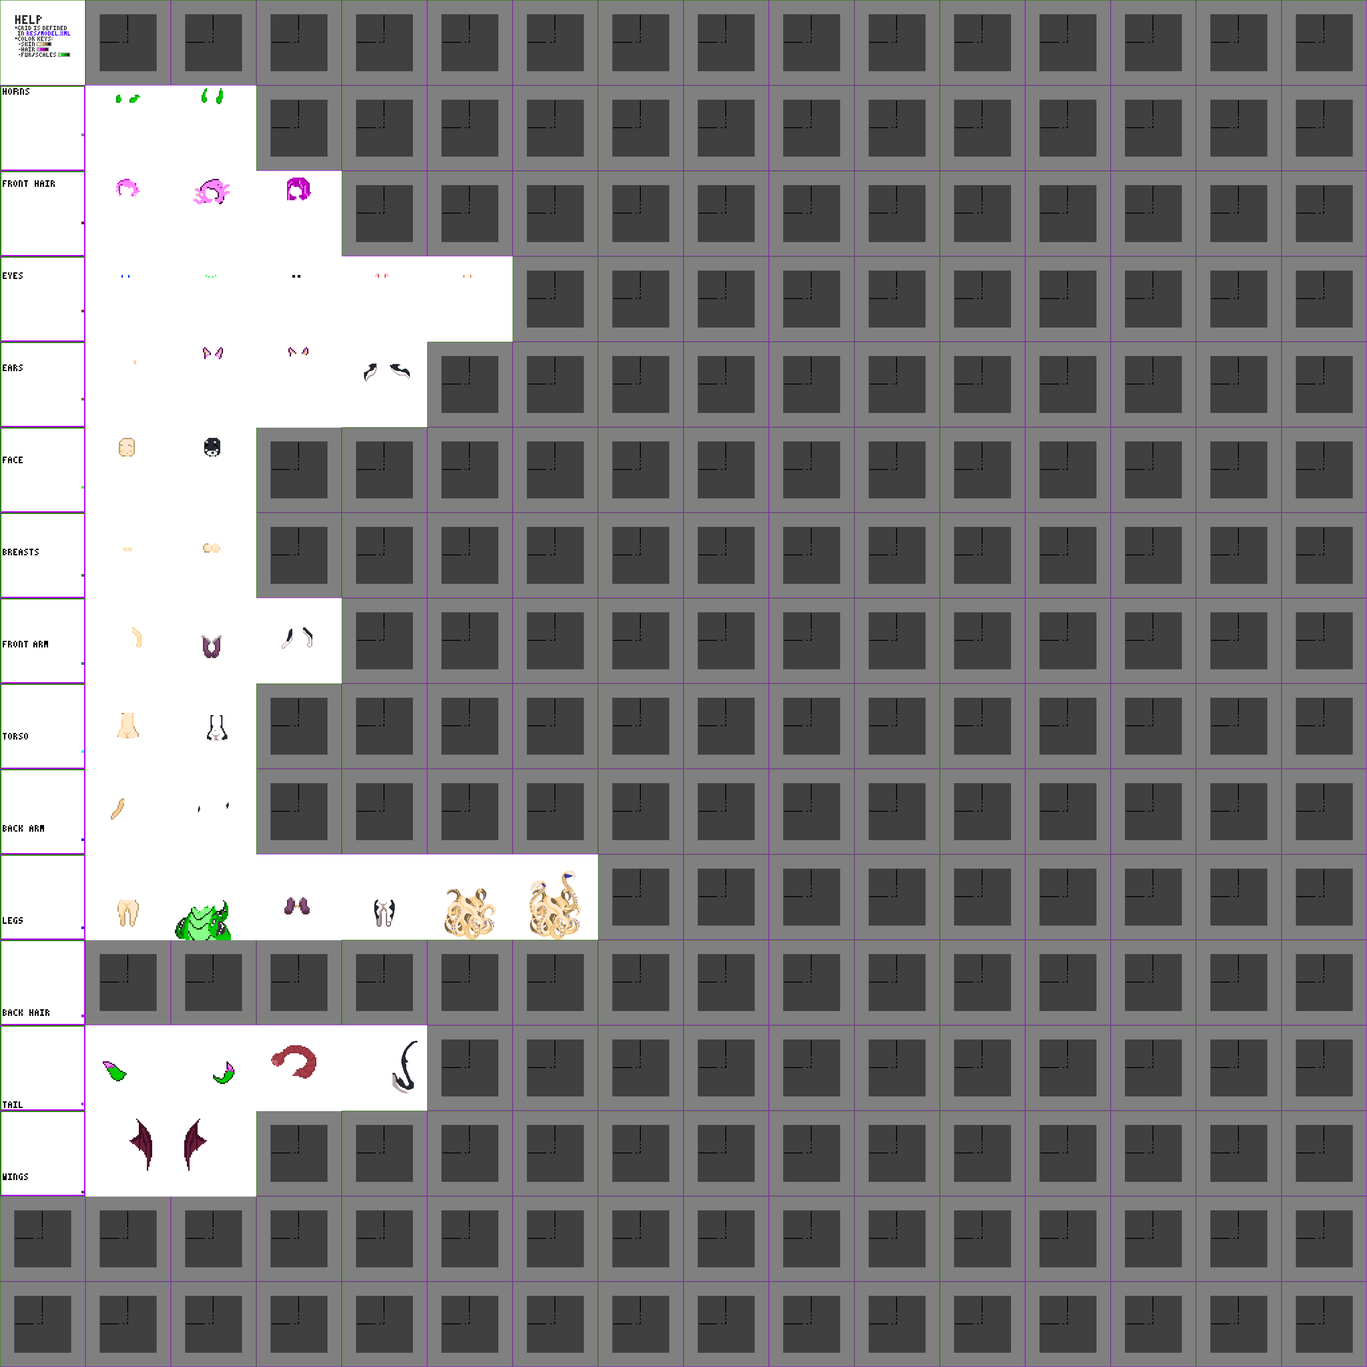
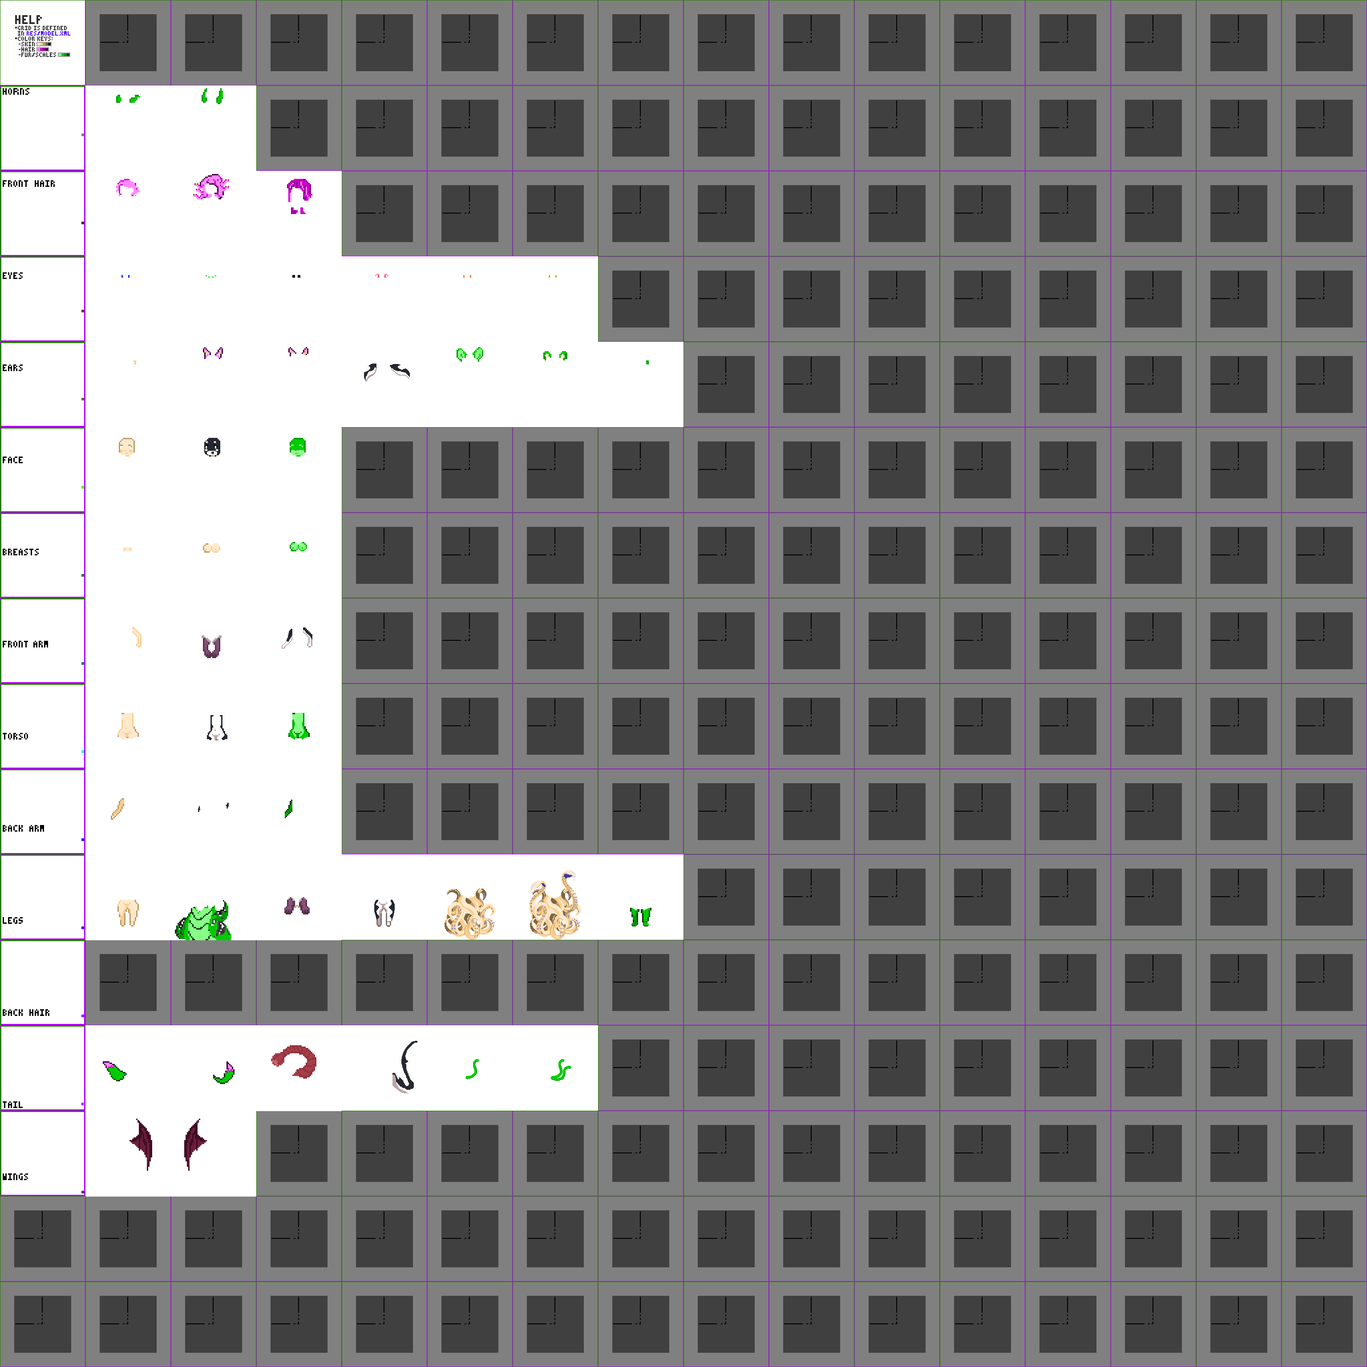
spred colors

diff --git a/cocspred/tinycolor-min.js b/cocspred/tinycolor-min.js
@@ -1,0 +1,4 @@
+// TinyColor v1.4.1
+// https://github.com/bgrins/TinyColor
+// 2016-07-07, Brian Grinstead, MIT License
+!function(a){function b(a,d){if(a=a?a:"",d=d||{},a instanceof b)return a;if(!(this instanceof b))return new b(a,d);var e=c(a);this._originalInput=a,this._r=e.r,this._g=e.g,this._b=e.b,this._a=e.a,this._roundA=P(100*this._a)/100,this._format=d.format||e.format,this._gradientType=d.gradientType,this._r<1&&(this._r=P(this._r)),this._g<1&&(this._g=P(this._g)),this._b<1&&(this._b=P(this._b)),this._ok=e.ok,this._tc_id=O++}function c(a){var b={r:0,g:0,b:0},c=1,e=null,g=null,i=null,j=!1,k=!1;return"string"==typeof a&&(a=K(a)),"object"==typeof a&&(J(a.r)&&J(a.g)&&J(a.b)?(b=d(a.r,a.g,a.b),j=!0,k="%"===String(a.r).substr(-1)?"prgb":"rgb"):J(a.h)&&J(a.s)&&J(a.v)?(e=G(a.s),g=G(a.v),b=h(a.h,e,g),j=!0,k="hsv"):J(a.h)&&J(a.s)&&J(a.l)&&(e=G(a.s),i=G(a.l),b=f(a.h,e,i),j=!0,k="hsl"),a.hasOwnProperty("a")&&(c=a.a)),c=z(c),{ok:j,format:a.format||k,r:Q(255,R(b.r,0)),g:Q(255,R(b.g,0)),b:Q(255,R(b.b,0)),a:c}}function d(a,b,c){return{r:255*A(a,255),g:255*A(b,255),b:255*A(c,255)}}function e(a,b,c){a=A(a,255),b=A(b,255),c=A(c,255);var d,e,f=R(a,b,c),g=Q(a,b,c),h=(f+g)/2;if(f==g)d=e=0;else{var i=f-g;switch(e=h>.5?i/(2-f-g):i/(f+g),f){case a:d=(b-c)/i+(c>b?6:0);break;case b:d=(c-a)/i+2;break;case c:d=(a-b)/i+4}d/=6}return{h:d,s:e,l:h}}function f(a,b,c){function d(a,b,c){return 0>c&&(c+=1),c>1&&(c-=1),1/6>c?a+6*(b-a)*c:.5>c?b:2/3>c?a+6*(b-a)*(2/3-c):a}var e,f,g;if(a=A(a,360),b=A(b,100),c=A(c,100),0===b)e=f=g=c;else{var h=.5>c?c*(1+b):c+b-c*b,i=2*c-h;e=d(i,h,a+1/3),f=d(i,h,a),g=d(i,h,a-1/3)}return{r:255*e,g:255*f,b:255*g}}function g(a,b,c){a=A(a,255),b=A(b,255),c=A(c,255);var d,e,f=R(a,b,c),g=Q(a,b,c),h=f,i=f-g;if(e=0===f?0:i/f,f==g)d=0;else{switch(f){case a:d=(b-c)/i+(c>b?6:0);break;case b:d=(c-a)/i+2;break;case c:d=(a-b)/i+4}d/=6}return{h:d,s:e,v:h}}function h(b,c,d){b=6*A(b,360),c=A(c,100),d=A(d,100);var e=a.floor(b),f=b-e,g=d*(1-c),h=d*(1-f*c),i=d*(1-(1-f)*c),j=e%6,k=[d,h,g,g,i,d][j],l=[i,d,d,h,g,g][j],m=[g,g,i,d,d,h][j];return{r:255*k,g:255*l,b:255*m}}function i(a,b,c,d){var e=[F(P(a).toString(16)),F(P(b).toString(16)),F(P(c).toString(16))];return d&&e[0].charAt(0)==e[0].charAt(1)&&e[1].charAt(0)==e[1].charAt(1)&&e[2].charAt(0)==e[2].charAt(1)?e[0].charAt(0)+e[1].charAt(0)+e[2].charAt(0):e.join("")}function j(a,b,c,d,e){var f=[F(P(a).toString(16)),F(P(b).toString(16)),F(P(c).toString(16)),F(H(d))];return e&&f[0].charAt(0)==f[0].charAt(1)&&f[1].charAt(0)==f[1].charAt(1)&&f[2].charAt(0)==f[2].charAt(1)&&f[3].charAt(0)==f[3].charAt(1)?f[0].charAt(0)+f[1].charAt(0)+f[2].charAt(0)+f[3].charAt(0):f.join("")}function k(a,b,c,d){var e=[F(H(d)),F(P(a).toString(16)),F(P(b).toString(16)),F(P(c).toString(16))];return e.join("")}function l(a,c){c=0===c?0:c||10;var d=b(a).toHsl();return d.s-=c/100,d.s=B(d.s),b(d)}function m(a,c){c=0===c?0:c||10;var d=b(a).toHsl();return d.s+=c/100,d.s=B(d.s),b(d)}function n(a){return b(a).desaturate(100)}function o(a,c){c=0===c?0:c||10;var d=b(a).toHsl();return d.l+=c/100,d.l=B(d.l),b(d)}function p(a,c){c=0===c?0:c||10;var d=b(a).toRgb();return d.r=R(0,Q(255,d.r-P(255*-(c/100)))),d.g=R(0,Q(255,d.g-P(255*-(c/100)))),d.b=R(0,Q(255,d.b-P(255*-(c/100)))),b(d)}function q(a,c){c=0===c?0:c||10;var d=b(a).toHsl();return d.l-=c/100,d.l=B(d.l),b(d)}function r(a,c){var d=b(a).toHsl(),e=(d.h+c)%360;return d.h=0>e?360+e:e,b(d)}function s(a){var c=b(a).toHsl();return c.h=(c.h+180)%360,b(c)}function t(a){var c=b(a).toHsl(),d=c.h;return[b(a),b({h:(d+120)%360,s:c.s,l:c.l}),b({h:(d+240)%360,s:c.s,l:c.l})]}function u(a){var c=b(a).toHsl(),d=c.h;return[b(a),b({h:(d+90)%360,s:c.s,l:c.l}),b({h:(d+180)%360,s:c.s,l:c.l}),b({h:(d+270)%360,s:c.s,l:c.l})]}function v(a){var c=b(a).toHsl(),d=c.h;return[b(a),b({h:(d+72)%360,s:c.s,l:c.l}),b({h:(d+216)%360,s:c.s,l:c.l})]}function w(a,c,d){c=c||6,d=d||30;var e=b(a).toHsl(),f=360/d,g=[b(a)];for(e.h=(e.h-(f*c>>1)+720)%360;--c;)e.h=(e.h+f)%360,g.push(b(e));return g}function x(a,c){c=c||6;for(var d=b(a).toHsv(),e=d.h,f=d.s,g=d.v,h=[],i=1/c;c--;)h.push(b({h:e,s:f,v:g})),g=(g+i)%1;return h}function y(a){var b={};for(var c in a)a.hasOwnProperty(c)&&(b[a[c]]=c);return b}function z(a){return a=parseFloat(a),(isNaN(a)||0>a||a>1)&&(a=1),a}function A(b,c){D(b)&&(b="100%");var d=E(b);return b=Q(c,R(0,parseFloat(b))),d&&(b=parseInt(b*c,10)/100),a.abs(b-c)<1e-6?1:b%c/parseFloat(c)}function B(a){return Q(1,R(0,a))}function C(a){return parseInt(a,16)}function D(a){return"string"==typeof a&&-1!=a.indexOf(".")&&1===parseFloat(a)}function E(a){return"string"==typeof a&&-1!=a.indexOf("%")}function F(a){return 1==a.length?"0"+a:""+a}function G(a){return 1>=a&&(a=100*a+"%"),a}function H(b){return a.round(255*parseFloat(b)).toString(16)}function I(a){return C(a)/255}function J(a){return!!V.CSS_UNIT.exec(a)}function K(a){a=a.replace(M,"").replace(N,"").toLowerCase();var b=!1;if(T[a])a=T[a],b=!0;else if("transparent"==a)return{r:0,g:0,b:0,a:0,format:"name"};var c;return(c=V.rgb.exec(a))?{r:c[1],g:c[2],b:c[3]}:(c=V.rgba.exec(a))?{r:c[1],g:c[2],b:c[3],a:c[4]}:(c=V.hsl.exec(a))?{h:c[1],s:c[2],l:c[3]}:(c=V.hsla.exec(a))?{h:c[1],s:c[2],l:c[3],a:c[4]}:(c=V.hsv.exec(a))?{h:c[1],s:c[2],v:c[3]}:(c=V.hsva.exec(a))?{h:c[1],s:c[2],v:c[3],a:c[4]}:(c=V.hex8.exec(a))?{r:C(c[1]),g:C(c[2]),b:C(c[3]),a:I(c[4]),format:b?"name":"hex8"}:(c=V.hex6.exec(a))?{r:C(c[1]),g:C(c[2]),b:C(c[3]),format:b?"name":"hex"}:(c=V.hex4.exec(a))?{r:C(c[1]+""+c[1]),g:C(c[2]+""+c[2]),b:C(c[3]+""+c[3]),a:I(c[4]+""+c[4]),format:b?"name":"hex8"}:(c=V.hex3.exec(a))?{r:C(c[1]+""+c[1]),g:C(c[2]+""+c[2]),b:C(c[3]+""+c[3]),format:b?"name":"hex"}:!1}function L(a){var b,c;return a=a||{level:"AA",size:"small"},b=(a.level||"AA").toUpperCase(),c=(a.size||"small").toLowerCase(),"AA"!==b&&"AAA"!==b&&(b="AA"),"small"!==c&&"large"!==c&&(c="small"),{level:b,size:c}}var M=/^\s+/,N=/\s+$/,O=0,P=a.round,Q=a.min,R=a.max,S=a.random;b.prototype={isDark:function(){return this.getBrightness()<128},isLight:function(){return!this.isDark()},isValid:function(){return this._ok},getOriginalInput:function(){return this._originalInput},getFormat:function(){return this._format},getAlpha:function(){return this._a},getBrightness:function(){var a=this.toRgb();return(299*a.r+587*a.g+114*a.b)/1e3},getLuminance:function(){var b,c,d,e,f,g,h=this.toRgb();return b=h.r/255,c=h.g/255,d=h.b/255,e=.03928>=b?b/12.92:a.pow((b+.055)/1.055,2.4),f=.03928>=c?c/12.92:a.pow((c+.055)/1.055,2.4),g=.03928>=d?d/12.92:a.pow((d+.055)/1.055,2.4),.2126*e+.7152*f+.0722*g},setAlpha:function(a){return this._a=z(a),this._roundA=P(100*this._a)/100,this},toHsv:function(){var a=g(this._r,this._g,this._b);return{h:360*a.h,s:a.s,v:a.v,a:this._a}},toHsvString:function(){var a=g(this._r,this._g,this._b),b=P(360*a.h),c=P(100*a.s),d=P(100*a.v);return 1==this._a?"hsv("+b+", "+c+"%, "+d+"%)":"hsva("+b+", "+c+"%, "+d+"%, "+this._roundA+")"},toHsl:function(){var a=e(this._r,this._g,this._b);return{h:360*a.h,s:a.s,l:a.l,a:this._a}},toHslString:function(){var a=e(this._r,this._g,this._b),b=P(360*a.h),c=P(100*a.s),d=P(100*a.l);return 1==this._a?"hsl("+b+", "+c+"%, "+d+"%)":"hsla("+b+", "+c+"%, "+d+"%, "+this._roundA+")"},toHex:function(a){return i(this._r,this._g,this._b,a)},toHexString:function(a){return"#"+this.toHex(a)},toHex8:function(a){return j(this._r,this._g,this._b,this._a,a)},toHex8String:function(a){return"#"+this.toHex8(a)},toRgb:function(){return{r:P(this._r),g:P(this._g),b:P(this._b),a:this._a}},toRgbString:function(){return 1==this._a?"rgb("+P(this._r)+", "+P(this._g)+", "+P(this._b)+")":"rgba("+P(this._r)+", "+P(this._g)+", "+P(this._b)+", "+this._roundA+")"},toPercentageRgb:function(){return{r:P(100*A(this._r,255))+"%",g:P(100*A(this._g,255))+"%",b:P(100*A(this._b,255))+"%",a:this._a}},toPercentageRgbString:function(){return 1==this._a?"rgb("+P(100*A(this._r,255))+"%, "+P(100*A(this._g,255))+"%, "+P(100*A(this._b,255))+"%)":"rgba("+P(100*A(this._r,255))+"%, "+P(100*A(this._g,255))+"%, "+P(100*A(this._b,255))+"%, "+this._roundA+")"},toName:function(){return 0===this._a?"transparent":this._a<1?!1:U[i(this._r,this._g,this._b,!0)]||!1},toFilter:function(a){var c="#"+k(this._r,this._g,this._b,this._a),d=c,e=this._gradientType?"GradientType = 1, ":"";if(a){var f=b(a);d="#"+k(f._r,f._g,f._b,f._a)}return"progid:DXImageTransform.Microsoft.gradient("+e+"startColorstr="+c+",endColorstr="+d+")"},toString:function(a){var b=!!a;a=a||this._format;var c=!1,d=this._a<1&&this._a>=0,e=!b&&d&&("hex"===a||"hex6"===a||"hex3"===a||"hex4"===a||"hex8"===a||"name"===a);return e?"name"===a&&0===this._a?this.toName():this.toRgbString():("rgb"===a&&(c=this.toRgbString()),"prgb"===a&&(c=this.toPercentageRgbString()),("hex"===a||"hex6"===a)&&(c=this.toHexString()),"hex3"===a&&(c=this.toHexString(!0)),"hex4"===a&&(c=this.toHex8String(!0)),"hex8"===a&&(c=this.toHex8String()),"name"===a&&(c=this.toName()),"hsl"===a&&(c=this.toHslString()),"hsv"===a&&(c=this.toHsvString()),c||this.toHexString())},clone:function(){return b(this.toString())},_applyModification:function(a,b){var c=a.apply(null,[this].concat([].slice.call(b)));return this._r=c._r,this._g=c._g,this._b=c._b,this.setAlpha(c._a),this},lighten:function(){return this._applyModification(o,arguments)},brighten:function(){return this._applyModification(p,arguments)},darken:function(){return this._applyModification(q,arguments)},desaturate:function(){return this._applyModification(l,arguments)},saturate:function(){return this._applyModification(m,arguments)},greyscale:function(){return this._applyModification(n,arguments)},spin:function(){return this._applyModification(r,arguments)},_applyCombination:function(a,b){return a.apply(null,[this].concat([].slice.call(b)))},analogous:function(){return this._applyCombination(w,arguments)},complement:function(){return this._applyCombination(s,arguments)},monochromatic:function(){return this._applyCombination(x,arguments)},splitcomplement:function(){return this._applyCombination(v,arguments)},triad:function(){return this._applyCombination(t,arguments)},tetrad:function(){return this._applyCombination(u,arguments)}},b.fromRatio=function(a,c){if("object"==typeof a){var d={};for(var e in a)a.hasOwnProperty(e)&&(d[e]="a"===e?a[e]:G(a[e]));a=d}return b(a,c)},b.equals=function(a,c){return a&&c?b(a).toRgbString()==b(c).toRgbString():!1},b.random=function(){return b.fromRatio({r:S(),g:S(),b:S()})},b.mix=function(a,c,d){d=0===d?0:d||50;var e=b(a).toRgb(),f=b(c).toRgb(),g=d/100,h={r:(f.r-e.r)*g+e.r,g:(f.g-e.g)*g+e.g,b:(f.b-e.b)*g+e.b,a:(f.a-e.a)*g+e.a};return b(h)},b.readability=function(c,d){var e=b(c),f=b(d);return(a.max(e.getLuminance(),f.getLuminance())+.05)/(a.min(e.getLuminance(),f.getLuminance())+.05)},b.isReadable=function(a,c,d){var e,f,g=b.readability(a,c);switch(f=!1,e=L(d),e.level+e.size){case"AAsmall":case"AAAlarge":f=g>=4.5;break;case"AAlarge":f=g>=3;break;case"AAAsmall":f=g>=7}return f},b.mostReadable=function(a,c,d){var e,f,g,h,i=null,j=0;d=d||{},f=d.includeFallbackColors,g=d.level,h=d.size;for(var k=0;k<c.length;k++)e=b.readability(a,c[k]),e>j&&(j=e,i=b(c[k]));return b.isReadable(a,i,{level:g,size:h})||!f?i:(d.includeFallbackColors=!1,b.mostReadable(a,["#fff","#000"],d))};var T=b.names={aliceblue:"f0f8ff",antiquewhite:"faebd7",aqua:"0ff",aquamarine:"7fffd4",azure:"f0ffff",beige:"f5f5dc",bisque:"ffe4c4",black:"000",blanchedalmond:"ffebcd",blue:"00f",blueviolet:"8a2be2",brown:"a52a2a",burlywood:"deb887",burntsienna:"ea7e5d",cadetblue:"5f9ea0",chartreuse:"7fff00",chocolate:"d2691e",coral:"ff7f50",cornflowerblue:"6495ed",cornsilk:"fff8dc",crimson:"dc143c",cyan:"0ff",darkblue:"00008b",darkcyan:"008b8b",darkgoldenrod:"b8860b",darkgray:"a9a9a9",darkgreen:"006400",darkgrey:"a9a9a9",darkkhaki:"bdb76b",darkmagenta:"8b008b",darkolivegreen:"556b2f",darkorange:"ff8c00",darkorchid:"9932cc",darkred:"8b0000",darksalmon:"e9967a",darkseagreen:"8fbc8f",darkslateblue:"483d8b",darkslategray:"2f4f4f",darkslategrey:"2f4f4f",darkturquoise:"00ced1",darkviolet:"9400d3",deeppink:"ff1493",deepskyblue:"00bfff",dimgray:"696969",dimgrey:"696969",dodgerblue:"1e90ff",firebrick:"b22222",floralwhite:"fffaf0",forestgreen:"228b22",fuchsia:"f0f",gainsboro:"dcdcdc",ghostwhite:"f8f8ff",gold:"ffd700",goldenrod:"daa520",gray:"808080",green:"008000",greenyellow:"adff2f",grey:"808080",honeydew:"f0fff0",hotpink:"ff69b4",indianred:"cd5c5c",indigo:"4b0082",ivory:"fffff0",khaki:"f0e68c",lavender:"e6e6fa",lavenderblush:"fff0f5",lawngreen:"7cfc00",lemonchiffon:"fffacd",lightblue:"add8e6",lightcoral:"f08080",lightcyan:"e0ffff",lightgoldenrodyellow:"fafad2",lightgray:"d3d3d3",lightgreen:"90ee90",lightgrey:"d3d3d3",lightpink:"ffb6c1",lightsalmon:"ffa07a",lightseagreen:"20b2aa",lightskyblue:"87cefa",lightslategray:"789",lightslategrey:"789",lightsteelblue:"b0c4de",lightyellow:"ffffe0",lime:"0f0",limegreen:"32cd32",linen:"faf0e6",magenta:"f0f",maroon:"800000",mediumaquamarine:"66cdaa",mediumblue:"0000cd",mediumorchid:"ba55d3",mediumpurple:"9370db",mediumseagreen:"3cb371",mediumslateblue:"7b68ee",mediumspringgreen:"00fa9a",mediumturquoise:"48d1cc",mediumvioletred:"c71585",midnightblue:"191970",mintcream:"f5fffa",mistyrose:"ffe4e1",moccasin:"ffe4b5",navajowhite:"ffdead",navy:"000080",oldlace:"fdf5e6",olive:"808000",olivedrab:"6b8e23",orange:"ffa500",orangered:"ff4500",orchid:"da70d6",palegoldenrod:"eee8aa",palegreen:"98fb98",paleturquoise:"afeeee",palevioletred:"db7093",papayawhip:"ffefd5",peachpuff:"ffdab9",peru:"cd853f",pink:"ffc0cb",plum:"dda0dd",powderblue:"b0e0e6",purple:"800080",rebeccapurple:"663399",red:"f00",rosybrown:"bc8f8f",royalblue:"4169e1",saddlebrown:"8b4513",salmon:"fa8072",sandybrown:"f4a460",seagreen:"2e8b57",seashell:"fff5ee",sienna:"a0522d",silver:"c0c0c0",skyblue:"87ceeb",slateblue:"6a5acd",slategray:"708090",slategrey:"708090",snow:"fffafa",springgreen:"00ff7f",steelblue:"4682b4",tan:"d2b48c",teal:"008080",thistle:"d8bfd8",tomato:"ff6347",turquoise:"40e0d0",violet:"ee82ee",wheat:"f5deb3",white:"fff",whitesmoke:"f5f5f5",yellow:"ff0",yellowgreen:"9acd32"},U=b.hexNames=y(T),V=function(){var a="[-\\+]?\\d+%?",b="[-\\+]?\\d*\\.\\d+%?",c="(?:"+b+")|(?:"+a+")",d="[\\s|\\(]+("+c+")[,|\\s]+("+c+")[,|\\s]+("+c+")\\s*\\)?",e="[\\s|\\(]+("+c+")[,|\\s]+("+c+")[,|\\s]+("+c+")[,|\\s]+("+c+")\\s*\\)?";return{CSS_UNIT:new RegExp(c),rgb:new RegExp("rgb"+d),rgba:new RegExp("rgba"+e),hsl:new RegExp("hsl"+d),hsla:new RegExp("hsla"+e),hsv:new RegExp("hsv"+d),hsva:new RegExp("hsva"+e),hex3:/^#?([0-9a-fA-F]{1})([0-9a-fA-F]{1})([0-9a-fA-F]{1})$/,hex6:/^#?([0-9a-fA-F]{2})([0-9a-fA-F]{2})([0-9a-fA-F]{2})$/,hex4:/^#?([0-9a-fA-F]{1})([0-9a-fA-F]{1})([0-9a-fA-F]{1})([0-9a-fA-F]{1})$/,hex8:/^#?([0-9a-fA-F]{2})([0-9a-fA-F]{2})([0-9a-fA-F]{2})([0-9a-fA-F]{2})$/}}();"undefined"!=typeof module&&module.exports?module.exports=b:"function"==typeof define&&define.amd?define(function(){return b}):window.tinycolor=b}(Math);

diff --git a/cocspred/spred.js b/cocspred/spred.js
@@ -6,6 +6,14 @@
 var spred;
 (function (spred) {
     const basedir = window['spred_basedir'] || '../../';
+    function RGBA(i) {
+        let rgb = i.toRgb();
+        return (((rgb.a * 0xff) & 0xff) << 24
+            | (rgb.b & 0xff) << 16
+            | (rgb.g & 0xff) << 8
+            | (rgb.r & 0xff)) >>> 0;
+    }
+    spred.RGBA = RGBA;
     /*
     function mkimg(colors: string[][]): HTMLCanvasElement {
         const hex     = {a: 10, b: 11, c: 12, d: 13, e: 14, f: 15, A: 10, B: 11, C: 12, D: 13, E: 14, F: 15};
@@ -55,10 +63,15 @@ var spred;
         return canvas;
     }
     spred.newCanvas = newCanvas;
+    function paletteOptions(palette) {
+        return Object.keys(palette).map(name => $new('option', name).attr('value', palette[name]));
+    }
+    spred.paletteOptions = paletteOptions;
     class Composite {
         constructor(model, visibleNames = [], zoom = 1) {
             this.model = model;
             this._layers = [];
+            this.colormap = {};
             this.canvas = newCanvas(model.width * zoom, model.height * zoom);
             this.canvas.setAttribute('focusable', 'true');
             this.layers = visibleNames.slice(0);
@@ -76,10 +89,34 @@ var spred;
             ctx2d.imageSmoothingEnabled = false;
             let z = this.zoom;
             ctx2d.clearRect(x * z, y * z, w * z, h * z);
+            let p0 = new Promise((resolve, reject) => {
+                resolve(ctx2d);
+            });
+            let cmap = [];
+            for (let ck of this.model.colorkeys) {
+                if (!(ck.base in this.colormap))
+                    continue;
+                let base = tinycolor(this.colormap[ck.base]);
+                if (ck.transform)
+                    for (let tf of ck.transform.split(',')) {
+                        let m = tf.match(/^([a-z]+)\((\d+)\)$/);
+                        if (m && m[1] in base)
+                            base = base[m[1]].apply(base, [+m[2]]);
+                    }
+                cmap.push([RGBA(tinycolor(ck.src)), RGBA(base)]);
+            }
             for (let a = this.model.layerNames, i = a.length - 1; i >= 0; i--) {
                 let lname = a[i];
-                if (this._layers.indexOf(lname) >= 0)
-                    ctx2d.drawImage(this.model.layers[lname].canvas, x, y, w, h, x * z, y * z, w * z, h * z);
+                if (this._layers.indexOf(lname) >= 0) {
+                    let idata = this.model.layers[lname].ctx2d.getImageData(x, y, w, h);
+                    idata = colormap(idata, cmap);
+                    p0.then(ctx2d => {
+                        return createImageBitmap(idata).then(bmp => {
+                            ctx2d.drawImage(bmp, x, y, w, h, x * z, y * z, w * z, h * z);
+                            return ctx2d;
+                        });
+                    });
+                }
             }
         }
         hideAll(name) {
@@ -167,6 +204,7 @@ var spred;
         constructor(src) {
             this.layers = {};
             this.layerNames = [];
+            this.colorProps = [];
             this.colorkeys = [];
             let xmodel = $(src).children('model');
             this.name = xmodel.attr('name');
@@ -178,15 +216,23 @@ var spred;
                 common: {}
             };
             xmodel.find('colorkeys>key').each((i, e) => {
-                this.colorkeys[e.getAttribute('src')] = {
+                this.colorkeys.push({
                     src: e.getAttribute('src'),
                     base: e.getAttribute('base'),
                     transform: e.getAttribute('transform') || ''
-                };
+                });
             });
             //noinspection CssInvalidHtmlTagReference
             xmodel.find('palette>common>color').each((i, e) => {
                 this.palettes.common[e.getAttribute('name')] = e.textContent;
+            });
+            xmodel.find('property').each((i, e) => {
+                let cpname = e.getAttribute('name');
+                this.colorProps.push(cpname);
+                let p = this.palettes[cpname] = {};
+                $(e).find('color').each((ci, ce) => {
+                    p[ce.getAttribute('name')] = ce.textContent;
+                });
             });
             xmodel.find('spritesheet').each((i, x) => {
                 let spritesheet = new Spritesheet(this.dir, x);
@@ -254,9 +300,22 @@ var spred;
             composite.zoom++;
         }), $new('button.ctrl', $new('span.fa.fa-search-minus')).click(() => {
             composite.zoom--;
-        })), $new('div', $new('.canvas', composite.canvas)), $new('label', $new('span.fa.fa-caret-down'), 'Layers').click(e => {
+        })), $new('div', $new('.canvas', composite.canvas)), $new('div', $new('label', $new('span.fa.fa-caret-down'), 'Layers').click(e => {
             composite.ui.find('.LayerBadges').toggleClass('collapse');
-        }), $new('.LayerBadges.collapse')
+        }), $new('.LayerBadges.collapse')), $new('div', $new('label', $new('span.fa.fa-caret-down'), 'Colors').click(e => {
+            composite.ui.find('.Colors').toggleClass('collapse');
+        }), $new('.Colors.collapse', ...spred.g_model.colorProps.map(cpname => $new('.row.control-group', $new('label.control-label.col-4', cpname), $new('select.form-control.col-8', ...[
+            $new('option', '--none--').attr('selected', 'true')
+        ].concat(paletteOptions(spred.g_model.palettes['cpname'] || {}), paletteOptions(spred.g_model.palettes['common']))).change(e => {
+            let s = e.target;
+            if (s.value) {
+                composite.colormap[cpname] = s.value;
+            }
+            else {
+                delete composite.colormap[cpname];
+            }
+            composite.redraw();
+        })))))
         /*$new('textarea.col.form-control'
         ).val(layers.join(', ')
         ).on('input change', e => {
@@ -384,14 +443,7 @@ var spred;
     spred.colormap = colormap;
     function grabData(blob) {
         let mask = $('#ClipboardMask').val();
-        let i32mask = 0;
-        if (mask && mask.charAt(0) == '#' && mask.length == 7) {
-            i32mask = +('0x' + mask.slice(1)) | 0;
-            //noinspection JSBitwiseOperatorUsage
-            if (!(i32mask & 0xff000000)) {
-                i32mask = (i32mask | 0xff000000) >>> 0;
-            }
-        }
+        let i32mask = mask ? RGBA(tinycolor(mask)) : 0;
         url2img(URL.createObjectURL(blob)).then(img => {
             switch ($("input[name=clipboard-action]:checked").val()) {
                 case 'replace':
@@ -421,13 +473,19 @@ var spred;
                 console.log("Model = ", model);
                 for (let ln of model.layerNames) {
                     let layer = model.layers[ln];
-                    layer.ui = $new('div.LayerListItem', $new('label', ln).click(e => selLayer(ln)), newCanvas(32, 32));
+                    if (!layer) {
+                        console.warn("Non-existing layer " + ln + " refered");
+                        continue;
+                    }
+                    layer.ui = $new('div.LayerListItem', $new('label', ln), newCanvas(32, 32)).click(e => selLayer(ln));
                     layer.updateUI();
                 }
                 $('#SelLayerCanvas')
                     .css('min-width', model.width + 'px')
                     .css('min-height', model.height + 'px');
+                $('#lmb-color').html('').append(model.colorkeys.map(ck => $new('option', ck.base + (ck.transform ? ' ' + ck.transform : '')).attr('value', ck.src)));
                 showLayerList(model);
+                selLayer(model.layerNames[0]);
                 addCompositeView(spred.defaultLayerList, 3);
                 addCompositeView(spred.defaultLayerList, 2);
                 addCompositeView(spred.defaultLayerList, 1);

diff --git a/cocspred/spred.html b/cocspred/spred.html
@@ -9,6 +9,7 @@
 	<link rel="stylesheet" href="css/font-awesome.min.css">
 	<script src="https://code.jquery.com/jquery-3.2.1.min.js"></script>
 	<script src="tether.min.js"></script>
+	<script src="tinycolor-min.js"></script>
 	<script src="https://maxcdn.bootstrapcdn.com/bootstrap/4.0.0-alpha.6/js/bootstrap.min.js"
 	        integrity="sha384-vBWWzlZJ8ea9aCX4pEW3rVHjgjt7zpkNpZk+02D9phzyeVkE+jo0ieGizqPLForn"
 	        crossorigin="anonymous"></script>
